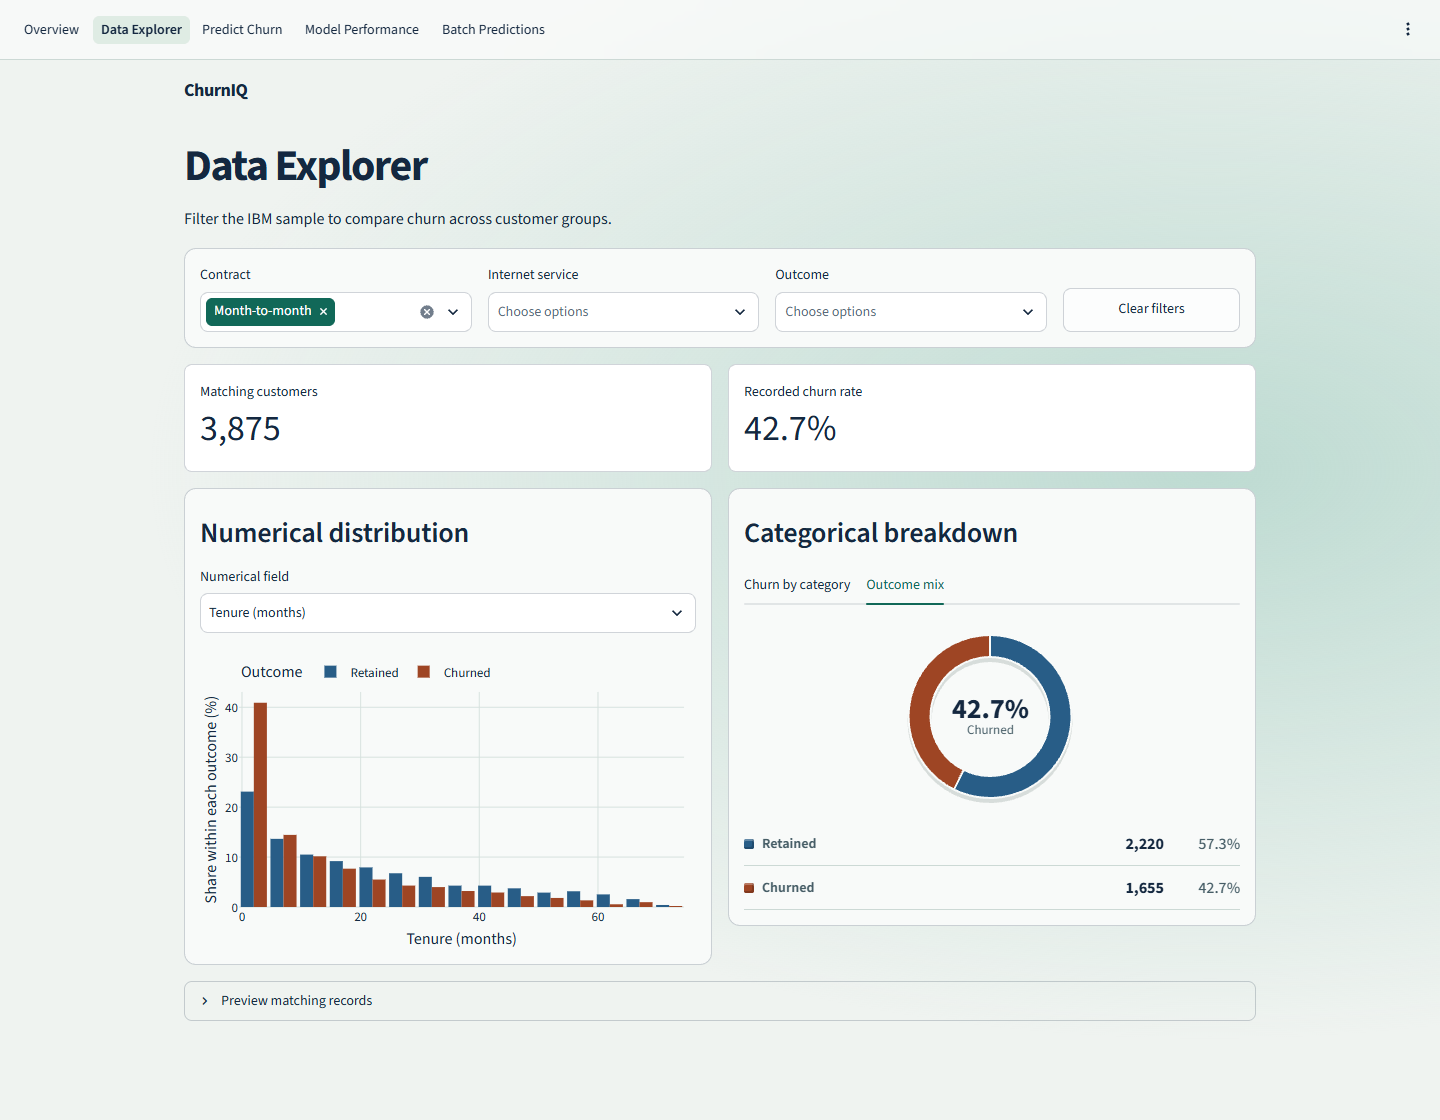
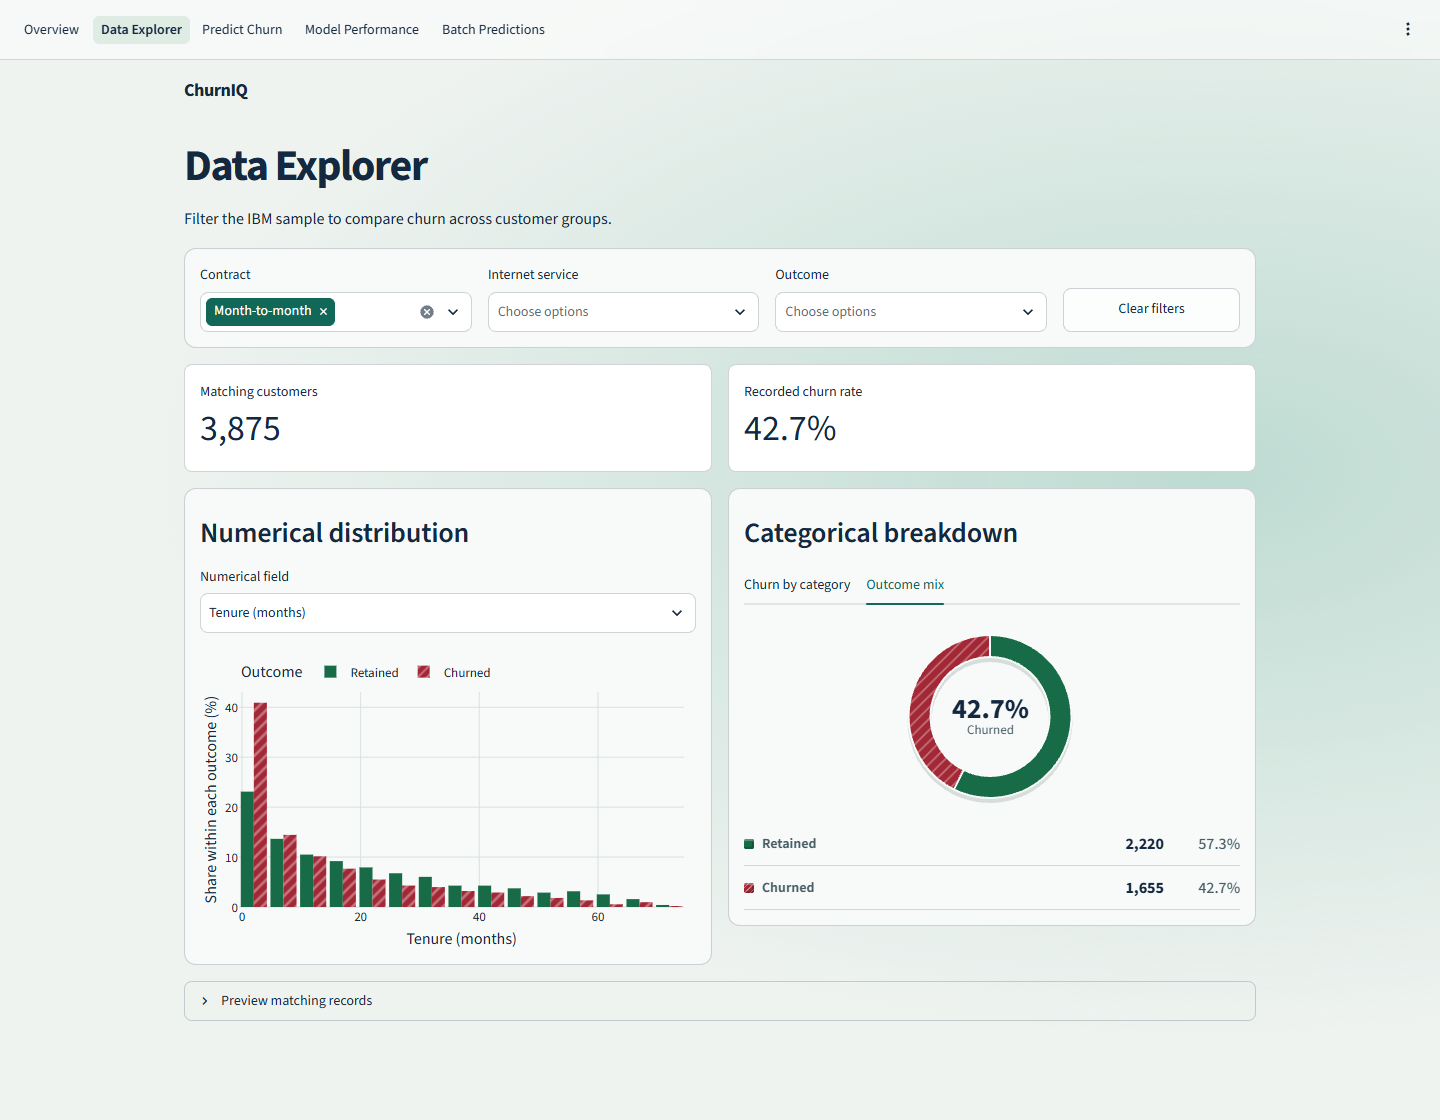
Animate churn charts and use red amber green signals

diff --git a/assets/styles.css b/assets/styles.css
@@ -73,7 +73,7 @@
     min-width: 0;
 }
 .churn-kpi + .churn-kpi { border-left: 1px solid var(--churn-line); }
-.churn-kpi.is-highlighted { background: #F6E6DB; }
+.churn-kpi.is-highlighted { background: #F7DFE3; }
 .churn-kpi dt,
 .churn-outcomes dt {
     color: var(--churn-muted);
@@ -89,7 +89,7 @@
     line-height: 1.15;
     font-variant-numeric: tabular-nums;
 }
-.churn-kpi.is-highlighted dd { color: #803719; }
+.churn-kpi.is-highlighted dd { color: #872234; }
 .st-key-surface_tenure h2,
 .st-key-surface_contract h2,
 .st-key-surface_outcomes h2 { font-size: 1.5rem; }
@@ -115,6 +115,9 @@
     background: var(--outcome-color);
     box-shadow: inset 0 2px 0 rgb(255 255 255 / 28%), inset -2px -2px 0 rgb(0 0 0 / 19%);
 }
+.churn-outcomes [data-pattern="/"] dt::before {
+    background-image: repeating-linear-gradient(135deg, transparent 0 3px, rgb(255 255 255 / 40%) 3px 4px);
+}
 .churn-outcomes dd { margin: 0; font-weight: 700; font-variant-numeric: tabular-nums; }
 .churn-outcomes dd:last-child { text-align: right; color: var(--churn-muted); font-weight: 500; }
 .st-key-contract_observation [data-testid="stMarkdownContainer"] p + p {
@@ -122,6 +125,29 @@
     line-height: 1.45;
 }
 [data-testid="stMain"] div[data-testid="stMetric"] { font-variant-numeric: tabular-nums; background: #FFFFFF; }
+.st-key-risk_low {
+    --risk-ink: #145338;
+    --risk-fill: #E0F2E6;
+    --risk-edge: #77A88E;
+}
+.st-key-risk_medium {
+    --risk-ink: #694704;
+    --risk-fill: #FFF1C7;
+    --risk-edge: #BA902F;
+}
+.st-key-risk_high {
+    --risk-ink: #872234;
+    --risk-fill: #F7DFE3;
+    --risk-edge: #C97A89;
+}
+[data-testid="stMain"] :is(.st-key-risk_low, .st-key-risk_medium, .st-key-risk_high) div[data-testid="stMetric"] {
+    background: var(--risk-fill);
+    border-color: var(--risk-edge);
+}
+:is(.st-key-risk_low, .st-key-risk_medium, .st-key-risk_high) [data-testid="stMetricValue"] {
+    color: var(--risk-ink);
+    font-weight: 700;
+}
 [data-testid="stVerticalBlockBorderWrapper"],
 [data-testid="stVerticalBlock"][height="auto"],
 [data-testid="stForm"] { border-radius: var(--churn-radius); }
@@ -177,6 +203,10 @@
     .st-key-surface_tenure,
     .st-key-surface_contract,
     .st-key-surface_outcomes { animation: churn-arrive 280ms ease-out both; }
+    .st-key-surface_tenure .scatterlayer,
+    :is(.st-key-surface_contract, .st-key-surface_category, .st-key-surface_numeric) .barlayer {
+        animation: churn-draw-plot 550ms cubic-bezier(.22, .65, .35, 1);
+    }
     :is(.st-key-surface_outcomes, .st-key-outcome_mix) .pielayer {
         transform-box: fill-box;
         transform-origin: center;
@@ -215,6 +245,10 @@
 @keyframes churn-arrive {
     from { opacity: .9; transform: translateY(.375rem); }
     to { opacity: 1; transform: none; }
+}
+@keyframes churn-draw-plot {
+    from { clip-path: inset(-8px calc(100% + 8px) -8px -8px); }
+    to { clip-path: inset(-8px -8px -8px -8px); }
 }
 @keyframes churn-ring-in {
     from { opacity: .5; transform: scale(.97); }

diff --git a/src/dashboard.py b/src/dashboard.py
@@ -13,12 +13,14 @@ from src.schema import TARGET
 NAVY = "#142840"
 BLUE = "#285D87"
 TEAL = "#116858"
-TERRACOTTA = "#9E4524"
-PLUM = "#604285"
+CHURN_RED = "#A32836"
+RETAINED_GREEN = "#176B46"
+AMBER = "#916100"
 MUTED = "#465D66"
 GRID = "#D5E1DD"
 OUTCOME_LABELS = {"No": "Retained", "Yes": "Churned"}
-OUTCOME_COLORS = {"Retained": BLUE, "Churned": TERRACOTTA}
+OUTCOME_COLORS = {"Retained": RETAINED_GREEN, "Churned": CHURN_RED}
+OUTCOME_PATTERNS = {"Retained": "", "Churned": "/"}
 
 
 @st.cache_data(show_spinner="Loading the verified IBM sample…")
@@ -105,8 +107,8 @@ def tenure_churn_chart(groups: pd.DataFrame) -> None:
     labels = groups.index.tolist()
     figure = go.Figure()
     for column, name, color, dash, symbol in [
-        ("churn_rate", "Customer churn rate", TERRACOTTA, "solid", "circle"),
-        ("charge_share", "Monthly charge share", PLUM, "dash", "diamond"),
+        ("churn_rate", "Customer churn rate", CHURN_RED, "solid", "circle"),
+        ("charge_share", "Monthly charge share", AMBER, "dash", "diamond"),
     ]:
         figure.add_scatter(
             x=labels, y=groups[column], name=name, mode="lines+markers",
@@ -129,7 +131,14 @@ def outcome_donut(churned: pd.Series) -> None:
     figure = go.Figure(go.Pie(
         labels=list(counts), values=list(counts.values()), hole=0.73,
         sort=False, direction="counterclockwise", textinfo="none",
-        marker={"colors": [OUTCOME_COLORS[label] for label in counts], "line": {"color": "#F8FAF9", "width": 2}},
+        marker={
+            "colors": [OUTCOME_COLORS[label] for label in counts],
+            "line": {"color": "#F8FAF9", "width": 2},
+            "pattern": {
+                "shape": [OUTCOME_PATTERNS[label] for label in counts],
+                "fillmode": "overlay", "fgcolor": "#FFFFFF", "fgopacity": 0.35, "solidity": 0.22,
+            },
+        },
         hovertemplate="%{label}<br>%{value:,} customers · %{percent:.1%}<extra></extra>",
     ))
     figure.add_annotation(
@@ -142,7 +151,7 @@ def outcome_donut(churned: pd.Series) -> None:
     chart(figure, height=185)
 
     rows = "".join(
-        f'<div style="--outcome-color:{OUTCOME_COLORS[label]}"><dt>{label}</dt>'
+        f'<div data-pattern="{OUTCOME_PATTERNS[label]}" style="--outcome-color:{OUTCOME_COLORS[label]}"><dt>{label}</dt>'
         f'<dd>{count:,}</dd><dd>{count / total:.1%}</dd></div>'
         for label, count in counts.items()
     )
@@ -164,7 +173,7 @@ def churn_rate_chart(
     rates = churn_by(data, column)
     figure = go.Figure(go.Bar(
         x=rates["rate"], y=rates[column].astype(str), orientation="h",
-        marker_color=TERRACOTTA, text=rates["rate"].map(lambda rate: f"{rate:.1%}"),
+        marker_color=CHURN_RED, text=rates["rate"].map(lambda rate: f"{rate:.1%}"),
         textposition="outside", cliponaxis=False, customdata=rates["customers"],
         hovertemplate="%{y}<br>%{x:.1%} churn · %{customdata:,} customers<extra></extra>",
     ))

diff --git a/views/predict_churn.py b/views/predict_churn.py
@@ -1,7 +1,7 @@
 import plotly.graph_objects as go
 import streamlit as st
 
-from src.dashboard import TEAL, TERRACOTTA, chart, model_release
+from src.dashboard import CHURN_RED, RETAINED_GREEN, chart, model_release
 from src.explain import explain_case
 from src.predict import predict_one
 from src.schema import CATEGORIES, FIELD_LABELS, INTERNET_ADDONS
@@ -60,7 +60,8 @@ if "scored_profile" in st.session_state:
     probability, decision, risk = st.columns(3)
     probability.metric("Churn probability", f"{prediction.probability:.1%}", border=True)
     decision.metric("Predicted churn", prediction.predicted_class, border=True)
-    risk.metric("Risk band", prediction.risk, border=True)
+    with risk.container(key=f"risk_{prediction.risk.lower()}"):
+        st.metric("Risk band", prediction.risk, border=True)
     st.caption(
         "This is a statistical estimate for the last submitted profile. "
         "Actual customer outcomes can differ."
@@ -77,7 +78,7 @@ if "scored_profile" in st.session_state:
             differences = [100 * entry["difference"] for entry in changes]
             figure = go.Figure(go.Bar(
                 x=differences, y=[entry["group"] for entry in changes], orientation="h",
-                marker_color=[TERRACOTTA if value > 0 else TEAL for value in differences],
+                marker_color=[CHURN_RED if value > 0 else RETAINED_GREEN for value in differences],
                 text=[f"{value:+.1f} pp" for value in differences], textposition="outside",
                 cliponaxis=False, hovertemplate="%{y} · %{x:+.1f} pp<extra></extra>",
             ))

diff --git a/views/data_explorer.py b/views/data_explorer.py
@@ -1,7 +1,9 @@
 import plotly.express as px
 import streamlit as st
 
-from src.dashboard import OUTCOME_COLORS, OUTCOME_LABELS, chart, churn_rate_chart, outcome_donut, sample_data
+from src.dashboard import (
+    OUTCOME_COLORS, OUTCOME_LABELS, OUTCOME_PATTERNS, chart, churn_rate_chart, outcome_donut, sample_data,
+)
 from src.schema import CATEGORIES, FIELD_LABELS, ID_COLUMN, NUMERIC_FEATURES
 
 st.title("Data Explorer")
@@ -45,10 +47,12 @@ with quantitative.container(border=True, key="surface_numeric"):
     plotted = filtered.assign(Outcome=filtered["Churn"].map(OUTCOME_LABELS))
     figure = px.histogram(
         plotted, x=feature, color="Outcome", barmode="group", nbins=24,
-        color_discrete_map=OUTCOME_COLORS, labels={feature: FIELD_LABELS[feature]}, histnorm="percent",
+        color_discrete_map=OUTCOME_COLORS, pattern_shape="Outcome", pattern_shape_map=OUTCOME_PATTERNS,
+        labels={feature: FIELD_LABELS[feature]}, histnorm="percent",
     )
     figure.update_yaxes(title="Share within each outcome (%)")
     figure.update_layout(bargap=0.12)
+    figure.update_traces(marker_pattern_fillmode="overlay", marker_pattern_fgcolor="#FFFFFF", marker_pattern_fgopacity=0.35)
     chart(figure, legend=True)
 
 with categorical.container(border=True, key="surface_category"):
